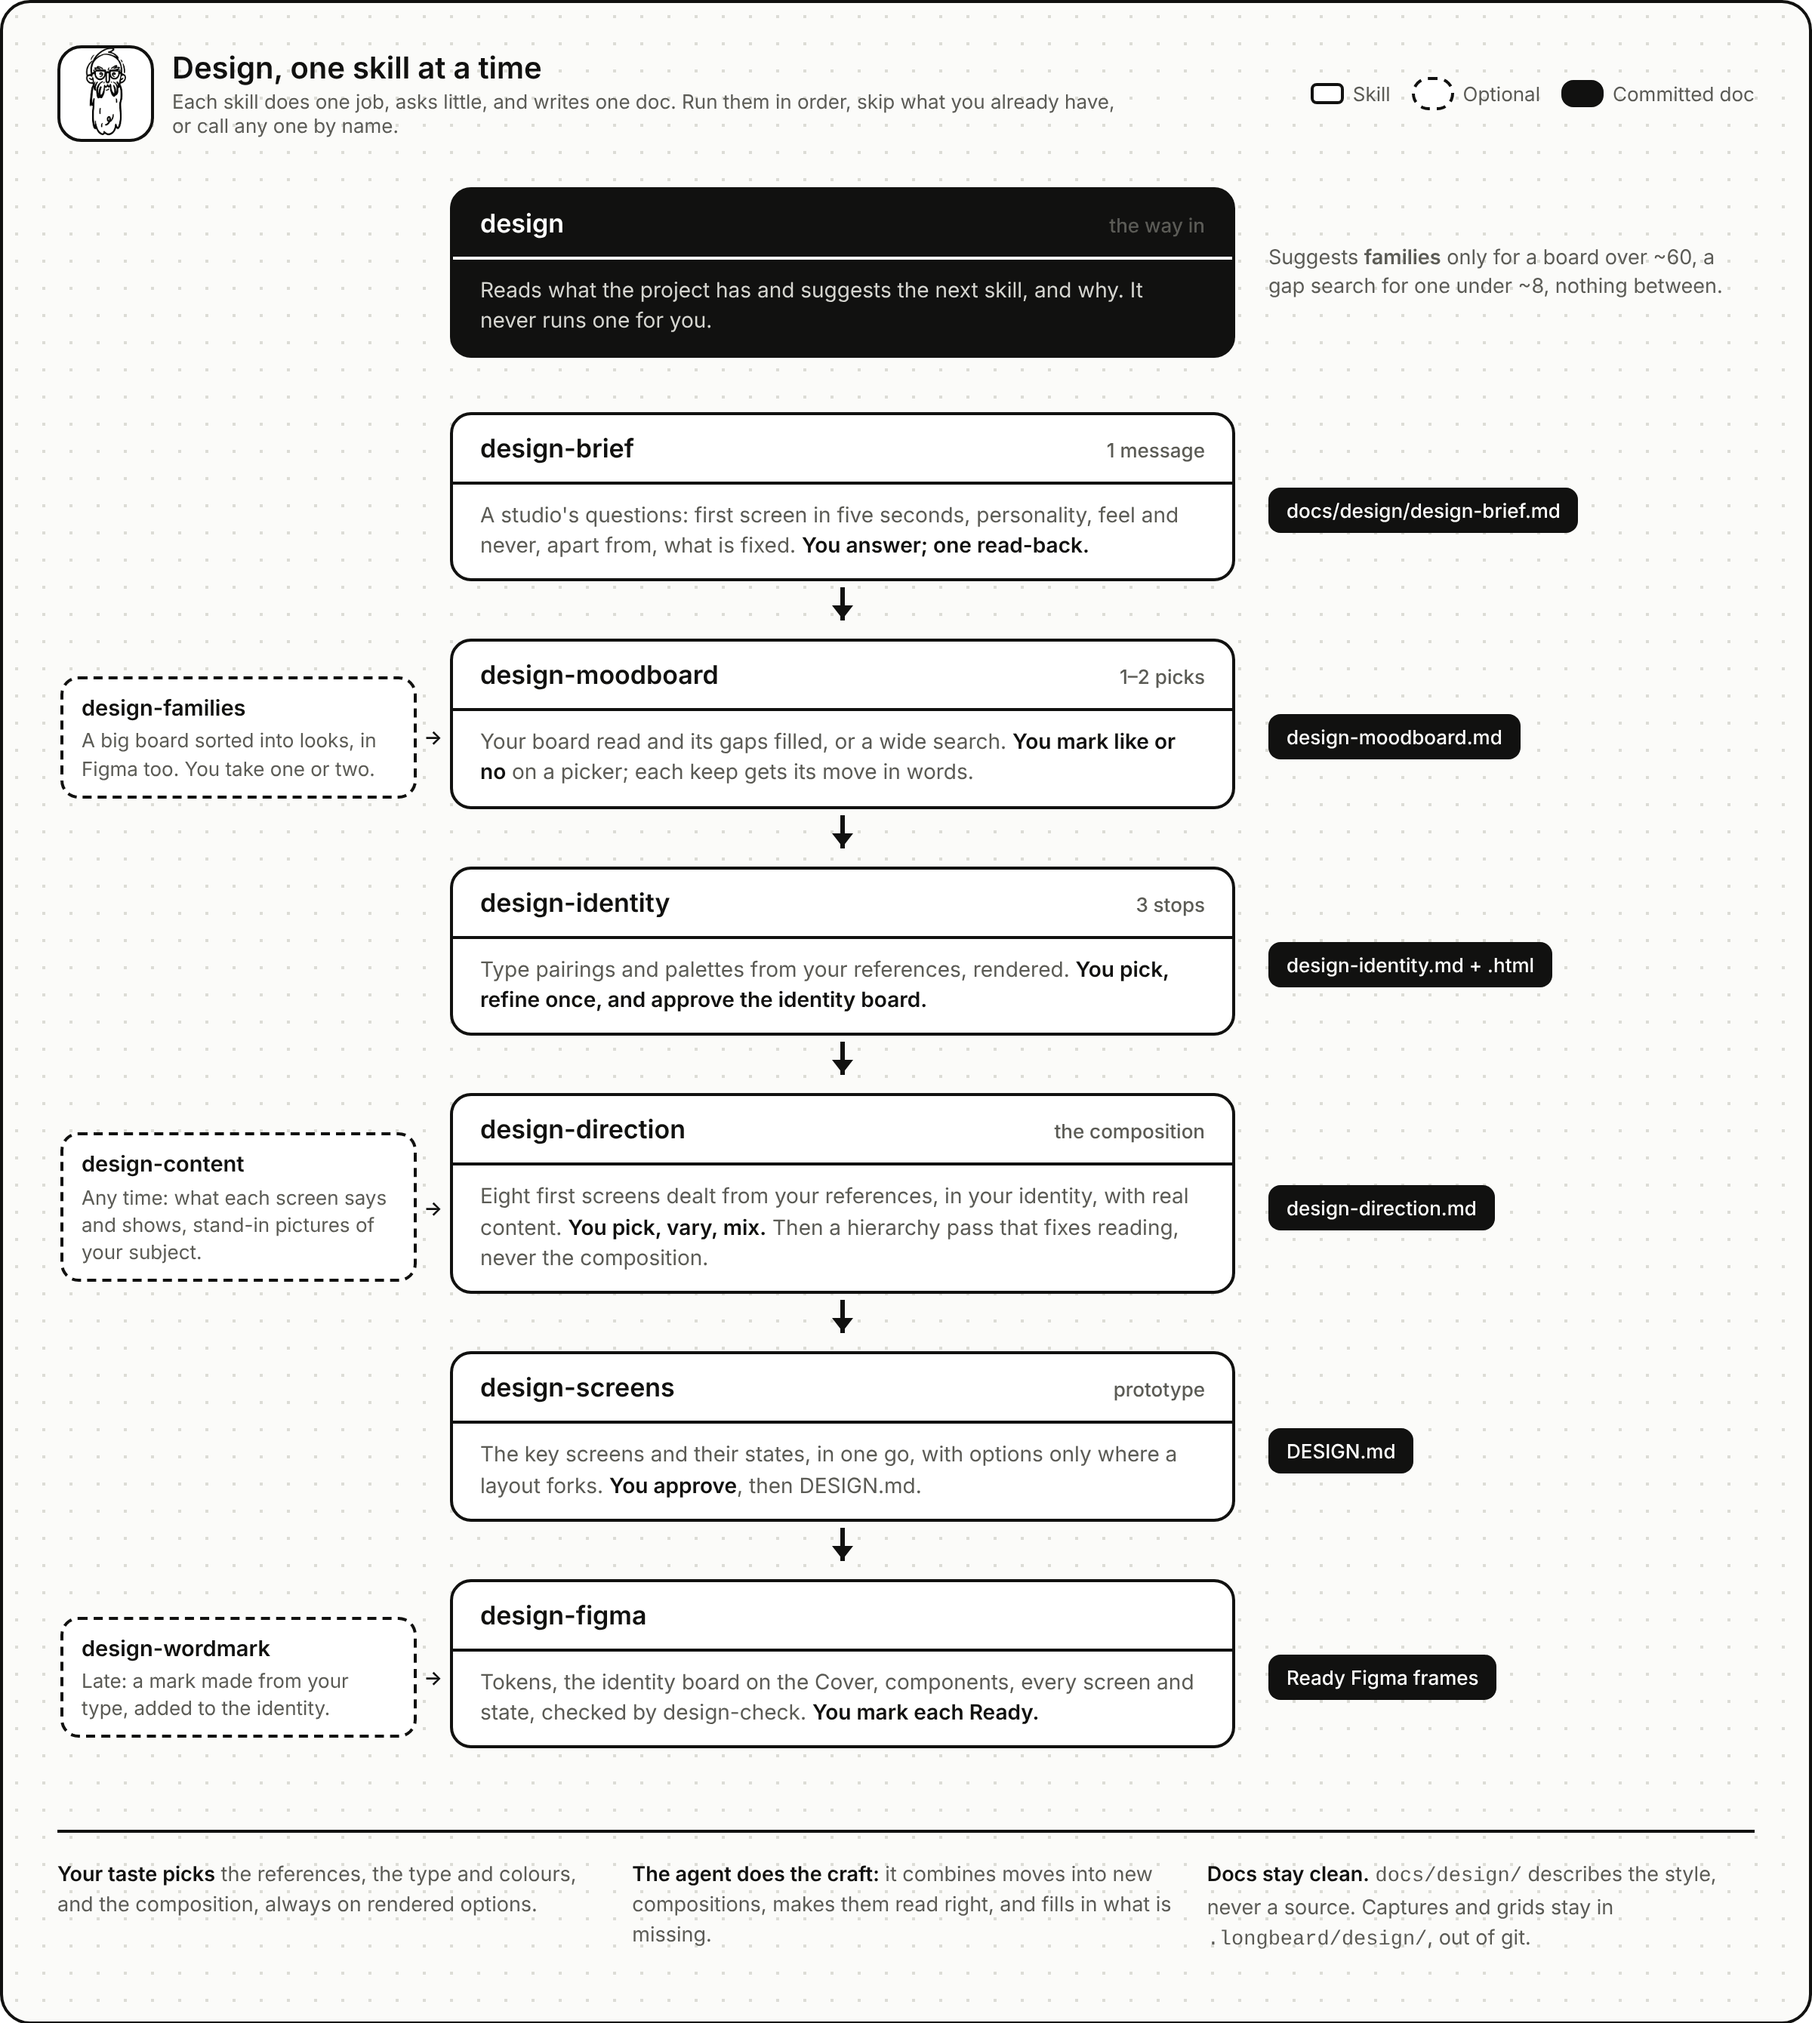
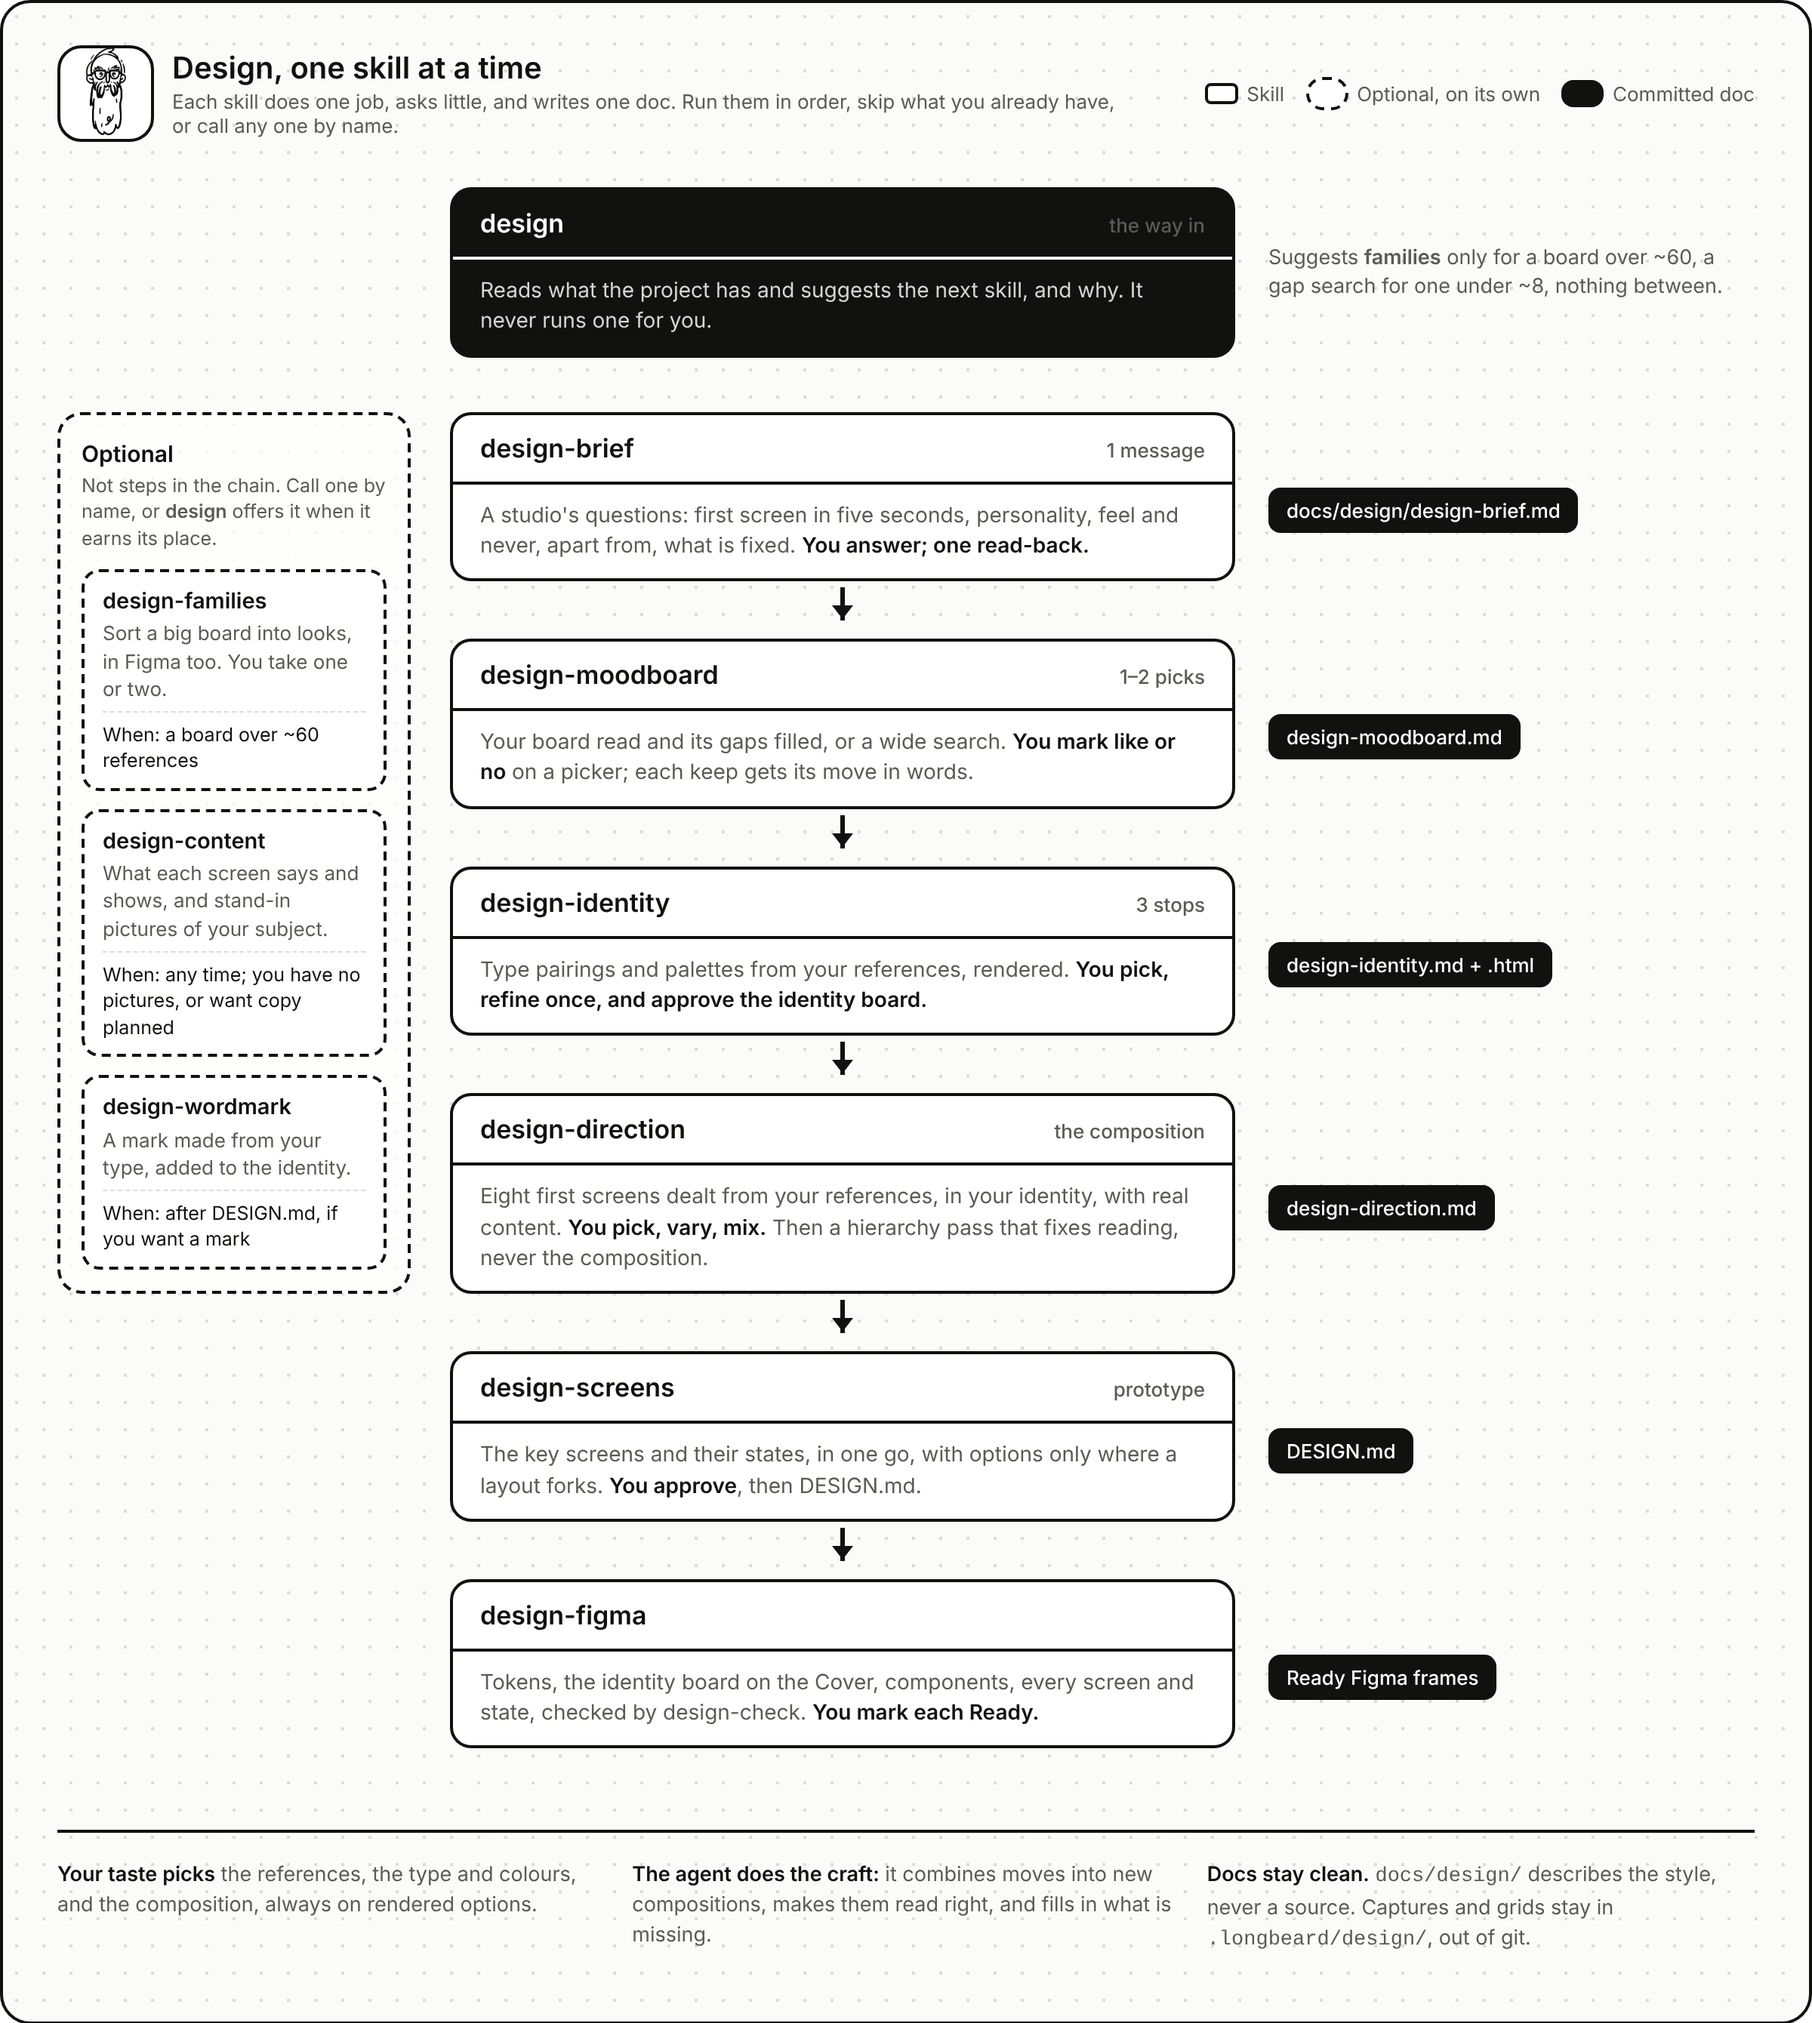
Flow picture: the optional skills sit in their own panel, with when to run each, not attached to a step.
Claude-Session: https://claude.ai/code/session_01HLXJ1a49dHFMqgxxmSRYy7

Changed region(s): [[0.0312, 0.2168, 0.2188, 0.6504], [0.0312, 0.8052, 0.1875, 0.8672], [0.7188, 0.031, 0.8125, 0.0619]]

diff --git a/assets/flow-design.html b/assets/flow-design.html
@@ -35,8 +35,8 @@
   .row { display: contents; }
   .left, .right { display: flex; align-items: center; padding: 10px 0; }
   .left { justify-content: flex-end; padding-right: 22px; }
-  .right { padding-left: 22px; }
-  .mid { position: relative; padding: 10px 0 28px; }
+  .right { grid-column: 3; padding-left: 22px; }
+  .mid { grid-column: 2; position: relative; padding: 10px 0 28px; }
   .mid::after { content: ""; position: absolute; left: 50%; bottom: 2px; width: 3px; height: 22px; background: var(--ink); transform: translateX(-50%); }
   .mid::before { content: ""; position: absolute; left: 50%; bottom: -4px; border: 7px solid transparent; border-top: 9px solid var(--ink); transform: translateX(-50%); }
   .row:last-child .mid::after, .row:last-child .mid::before { display: none; }
@@ -49,8 +49,11 @@
   .doc.private { background: #fff; color: var(--ink); border: var(--stroke) solid var(--ink); }
   .opt { max-width: 236px; border: var(--stroke) dashed var(--ink); border-radius: 12px; background: #fff; padding: 9px 12px; font-size: 13px; line-height: 1.4; color: var(--muted); }
   .opt b { display: block; color: var(--ink); font-size: 14.5px; font-weight: 600; margin-bottom: 2px; }
-  .opt.arrow { position: relative; }
-  .opt.arrow::after { content: "→"; position: absolute; right: -19px; top: 50%; transform: translateY(-50%); color: var(--ink); font-weight: 600; }
+  .optional { grid-column: 1; grid-row: 1 / span 6; align-self: start; margin: 10px 26px 0 0; border: var(--stroke) dashed var(--ink); border-radius: 16px; background: rgba(255,255,255,0.7); padding: 16px 14px 14px; display: flex; flex-direction: column; gap: 12px; }
+  .optional h4 { font-size: 15px; font-weight: 600; }
+  .optional h4 span { display: block; font-size: 12.5px; font-weight: 400; color: var(--muted); margin-top: 3px; line-height: 1.4; }
+  .opt { max-width: none; }
+  .opt .when { display: block; margin-top: 6px; padding-top: 6px; border-top: 1.5px dashed var(--dot); font-size: 12.5px; color: var(--ink); }
   footer { display: flex; gap: 18px; margin-top: 26px; padding-top: 18px; border-top: 2px solid var(--ink); font-size: 13.5px; color: var(--muted); line-height: 1.45; }
   footer div { flex: 1; }
   footer b { color: var(--ink); font-weight: 600; }
@@ -63,7 +66,7 @@
       <div class="logo"><img src="../logo.png" alt="Long Beard"></div>
       <div><b>Design, one skill at a time</b><span>Each skill does one job, asks little, and writes one doc. Run them in order, skip what you already have, or call any one by name.</span></div>
     </div>
-    <div class="legend"><span class="k"><span class="sw"></span>Skill</span><span class="k"><span class="sw opt"></span>Optional</span><span class="k"><span class="sw doc"></span>Committed doc</span></div>
+    <div class="legend"><span class="k"><span class="sw"></span>Skill</span><span class="k"><span class="sw opt"></span>Optional, on its own</span><span class="k"><span class="sw doc"></span>Committed doc</span></div>
   </header>
 
   <div class="hub">
@@ -72,33 +75,33 @@
   </div>
 
   <div class="rows">
+    <div class="optional">
+      <h4>Optional<span>Not steps in the chain. Call one by name, or <b>design</b> offers it when it earns its place.</span></h4>
+      <div class="opt"><b>design-families</b>Sort a big board into looks, in Figma too. You take one or two.<span class="when">When: a board over ~60 references</span></div>
+      <div class="opt"><b>design-content</b>What each screen says and shows, and stand-in pictures of your subject.<span class="when">When: any time; you have no pictures, or want copy planned</span></div>
+      <div class="opt"><b>design-wordmark</b>A mark made from your type, added to the identity.<span class="when">When: after DESIGN.md, if you want a mark</span></div>
+    </div>
     <div class="row">
-      <div class="left"></div>
       <div class="mid"><div class="card"><h3>design-brief <em>1 message</em></h3><p>A studio's questions: first screen in five seconds, personality, feel and never, apart from, what is fixed. <b>You answer; one read-back.</b></p></div></div>
       <div class="right"><span class="doc">docs/design/design-brief.md</span></div>
     </div>
     <div class="row">
-      <div class="left"><div class="opt arrow"><b>design-families</b>A big board sorted into looks, in Figma too. You take one or two.</div></div>
       <div class="mid"><div class="card"><h3>design-moodboard <em>1–2 picks</em></h3><p>Your board read and its gaps filled, or a wide search. <b>You mark like or no</b> on a picker; each keep gets its move in words.</p></div></div>
       <div class="right"><span class="doc">design-moodboard.md</span></div>
     </div>
     <div class="row">
-      <div class="left"></div>
       <div class="mid"><div class="card"><h3>design-identity <em>3 stops</em></h3><p>Type pairings and palettes from your references, rendered. <b>You pick, refine once, and approve the identity board.</b></p></div></div>
       <div class="right"><span class="doc">design-identity.md + .html</span></div>
     </div>
     <div class="row">
-      <div class="left"><div class="opt arrow"><b>design-content</b>Any time: what each screen says and shows, stand-in pictures of your subject.</div></div>
       <div class="mid"><div class="card"><h3>design-direction <em>the composition</em></h3><p>Eight first screens dealt from your references, in your identity, with real content. <b>You pick, vary, mix.</b> Then a hierarchy pass that fixes reading, never the composition.</p></div></div>
       <div class="right"><span class="doc">design-direction.md</span></div>
     </div>
     <div class="row">
-      <div class="left"></div>
       <div class="mid"><div class="card"><h3>design-screens <em>prototype</em></h3><p>The key screens and their states, in one go, with options only where a layout forks. <b>You approve</b>, then DESIGN.md.</p></div></div>
       <div class="right"><span class="doc">DESIGN.md</span></div>
     </div>
     <div class="row">
-      <div class="left"><div class="opt arrow"><b>design-wordmark</b>Late: a mark made from your type, added to the identity.</div></div>
       <div class="mid"><div class="card"><h3>design-figma</h3><p>Tokens, the identity board on the Cover, components, every screen and state, checked by design-check. <b>You mark each Ready.</b></p></div></div>
       <div class="right"><span class="doc">Ready Figma frames</span></div>
     </div>
